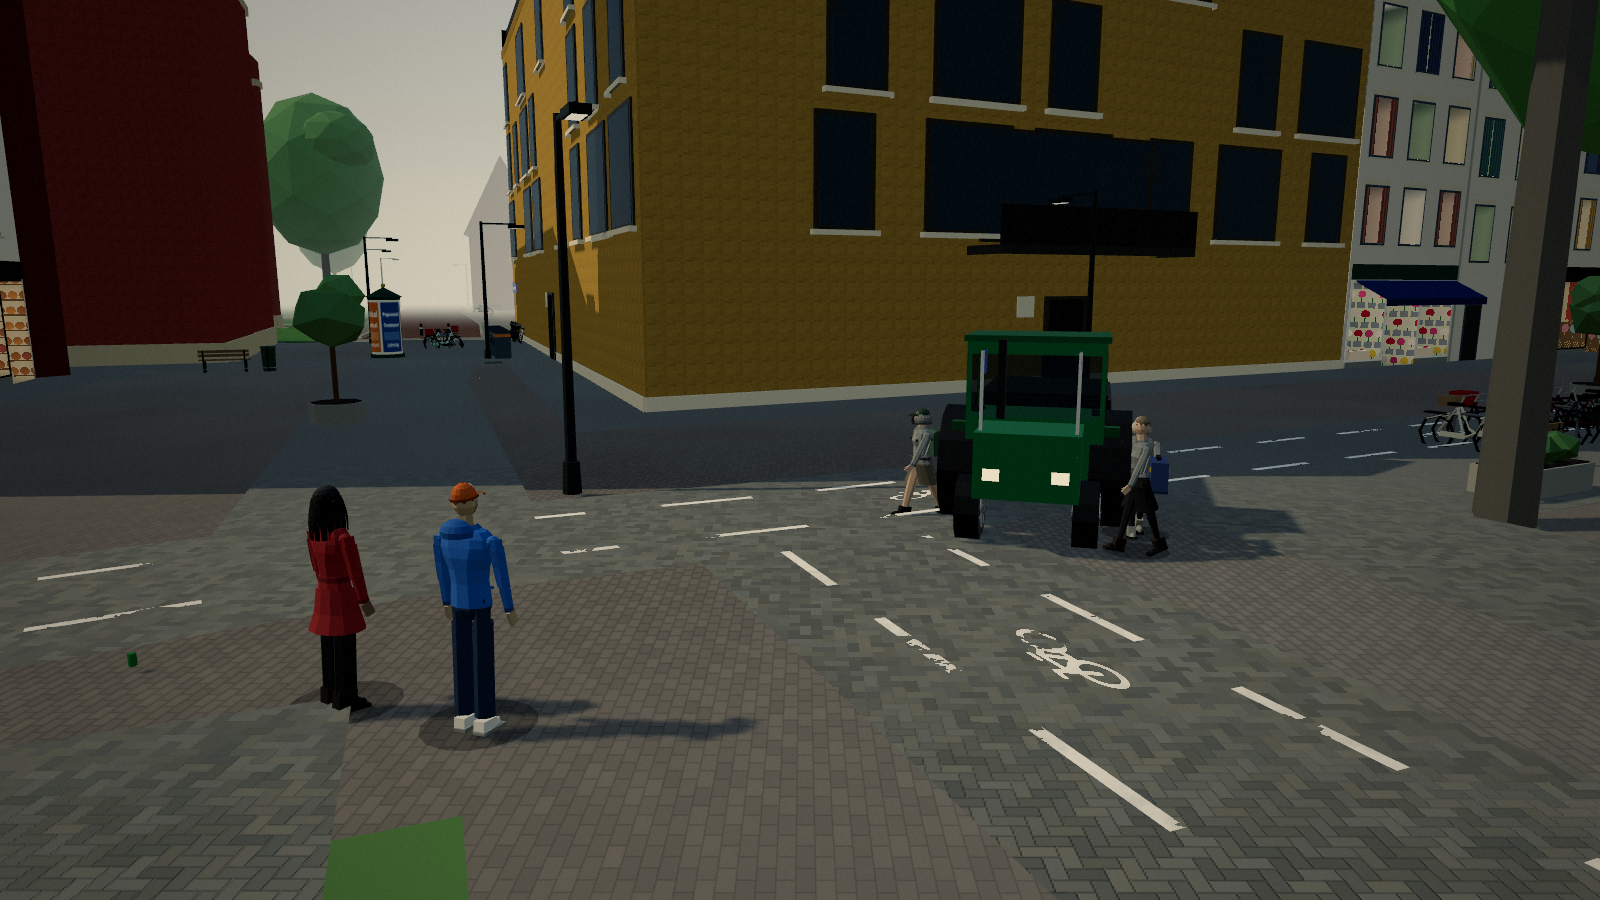
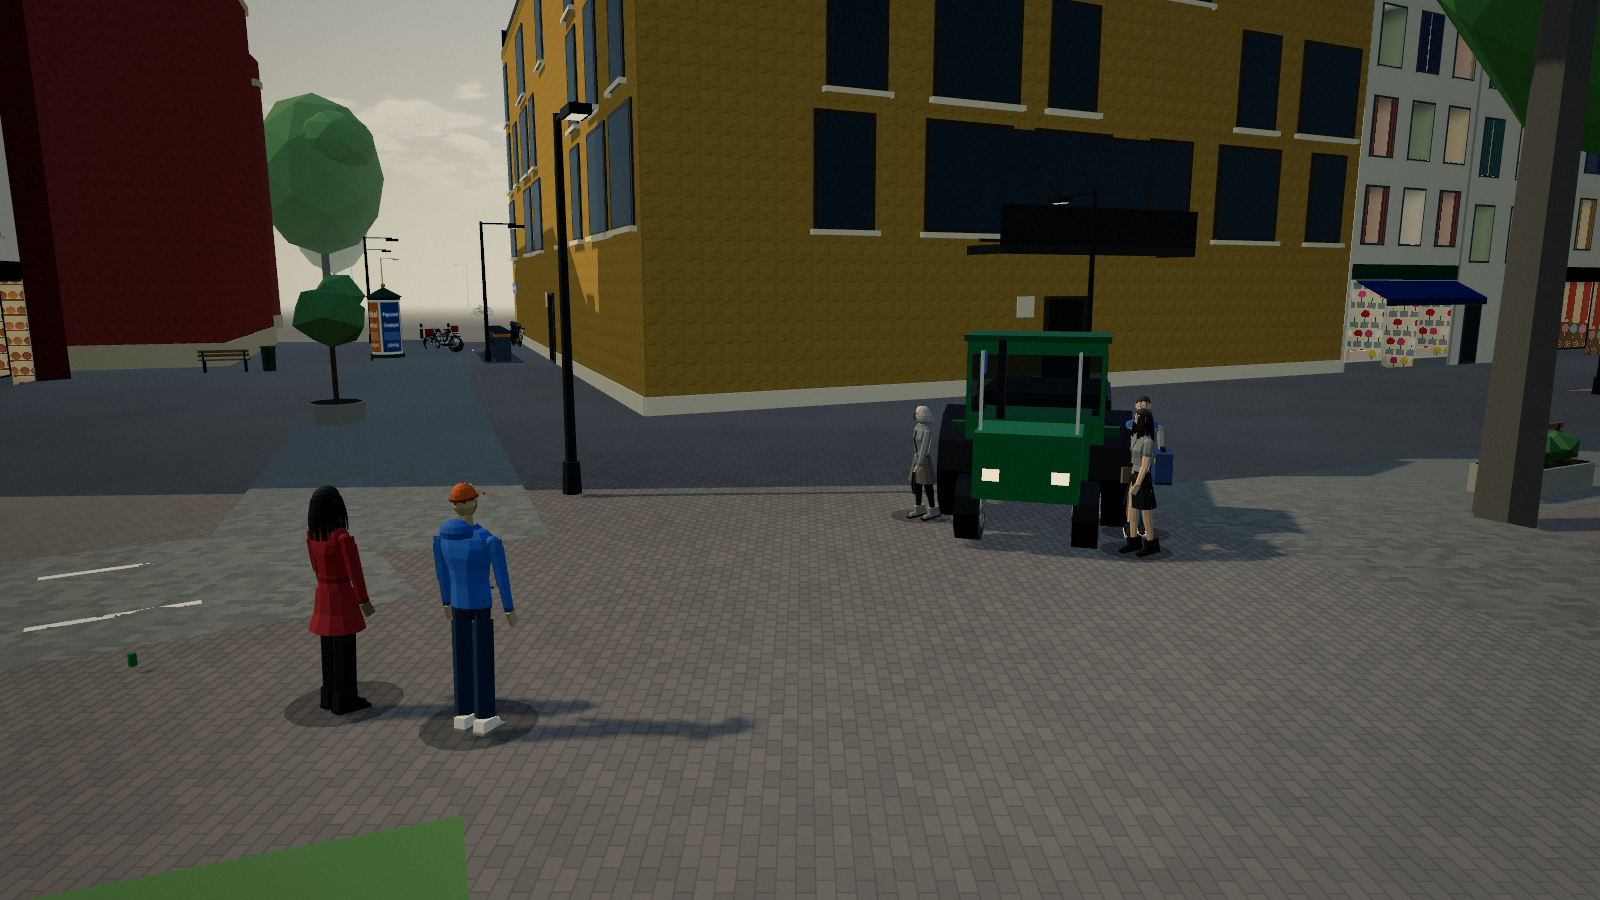
Beeldpagina cutscenes: ronde 2 (reling, intro-snee, M30, M10, keukendeur, Moi. De bank?)

diff --git a/docs/beeld-23-11/cutscenes-visueel/vergelijk.html b/docs/beeld-23-11/cutscenes-visueel/vergelijk.html
@@ -6,8 +6,9 @@
 <style>
   body { font: 15px/1.45 system-ui, sans-serif; margin: 24px auto; max-width: 1300px; padding: 0 16px; background: #f4f0e6; color: #1c1b18; }
   h1 { margin: 0 0 4px; } p.sub { margin: 0 0 24px; color: #4a463c; }
+  h2.deel { margin: 40px 0 16px; border-bottom: 2px solid #1c1b18; }
   .paar { margin: 0 0 36px; }
-  .paar h2 { margin: 0 0 2px; font-size: 18px; }
+  .paar h3 { margin: 0 0 2px; font-size: 18px; }
   .paar p { margin: 0 0 8px; color: #4a463c; }
   .rij { display: grid; grid-template-columns: 1fr 1fr; gap: 12px; }
   figure { margin: 0; }
@@ -19,11 +20,13 @@
 </head>
 <body>
 <h1>Cutscenes visueel: voor en na</h1>
-<p class="sub">Branch <code>cutscenes-visueel-23-11</code>, stills uit een headless Chrome tegen de gestagede game (zelfde wereld, zelfde scènes; geen Electron). Ondertitels en "TEST" in de titelkaart horen bij het testscript.</p>
-<div class="let">Bekeken: de rondvaartboot (gesprek, mislukscène, dekmoment) en <code>M10.intro</code>. Niet bekeken: de zitplaatsen op kleine boten, <code>M30.outro</code>, <code>M01.intro</code>, <code>M01.outro</code>, <code>M15.outro</code> en <code>carriere-bezit-start</code> (alleen de data is gemeten).</div>
+<p class="sub">Branch <code>cutscenes-visueel-23-11</code>. Stills uit een eigen headless Chrome tegen de gestagede game (dezelfde wereld en scènes; geen Electron). De scènes staan op een vaste testplek (Grote Markt) of in de echte rondvaartboot bij de Spilsluizen. Een kaart "TEST" in een voor-beeld komt uit het oude testscript, niet uit het spel.</p>
+<div class="let">Bekeken in beeld: de rondvaartboot (gesprek, mislukscène, dekmoment met reling, intro), <code>M10.intro</code>, <code>M30.outro</code> en de keuken van de opening (deur en "Moi. De bank?"). Niet bekeken: de zitplaatsen op kleine boten, <code>M01.intro</code>, <code>M01.outro</code>, <code>M15.outro</code>, <code>carriere-bezit-start</code> en de bus. Details: <a href="../../CUTSCENE-ISSUES-23-11.md">CUTSCENE-ISSUES-23-11.md</a>.</div>
+
+<h2 class="deel">De rondvaartboot</h2>
 
 <section class="paar">
-  <h2>Rondvaartboot: een gesprek in de boot</h2>
+  <h3>Een gesprek in de boot</h3>
   <p>Voor: het paar stond dwars op het dak-eind, hoofden door het glas, blik opzij. Na: zittend op de bank onder het dak, lijven naar de boeg, alleen het hoofd draait naar de spreker.</p>
   <div class="rij">
     <figure class="voor"><figcaption>Voor</figcaption><img src="rondvaart-gesprek-voor.png" alt="Voor: Tammo en Tessa staan bij het glazen dak"></figure>
@@ -32,7 +35,16 @@
 </section>
 
 <section class="paar">
-  <h2>Rondvaartboot: de mislukscène</h2>
+  <h3>Het begin van een intro in de boot</h3>
+  <p>Voor: de scène begon op de hoogte van de volgcamera (16 m) en zakte seconden lang naar het paar. Na: het eerste beeld is meteen het paar op de bank (harde snee).</p>
+  <div class="rij">
+    <figure class="voor"><figcaption>Voor</figcaption><img src="rondvaart-intro-voor.png" alt="Voor: luchtbeeld van de boot"></figure>
+    <figure class="na"><figcaption>Na</figcaption><img src="rondvaart-intro-na.png" alt="Na: het paar op de bank"></figure>
+  </div>
+</section>
+
+<section class="paar">
+  <h3>De mislukscène</h3>
   <p>Voor: een hoge opname waarop het paar op de punt van de boeg staat (half in het water). Na: op de bank, camera onder het dak.</p>
   <div class="rij">
     <figure class="voor"><figcaption>Voor</figcaption><img src="rondvaart-mislukt-voor.png" alt="Voor: het paar op de boeg"></figure>
@@ -41,20 +53,51 @@
 </section>
 
 <section class="paar">
-  <h2>Rondvaartboot: het dekmoment (opbouw naar de kus)</h2>
-  <p>Voor: de camera stond op 1,5 m en kapte de hoofden af. Na: ruimer en iets hoger, hoofden en schouders in beeld, het paar net voor het dak. De reling uit de regie bestaat nog niet in het bootmodel (open punt 2 in <a href="../../CUTSCENE-ISSUES-23-11.md">CUTSCENE-ISSUES-23-11.md</a>).</p>
+  <h3>Het dekmoment (opbouw naar de kus)</h3>
+  <p>Voor: de camera op 1,5 m kapte de hoofden af en er was geen reling. Na: hoofden in beeld en een reling langs het voordek; de handen liggen erop.</p>
   <div class="rij">
     <figure class="voor"><figcaption>Voor</figcaption><img src="rondvaart-dek-voor.png" alt="Voor: hoofden afgekapt"></figure>
-    <figure class="na"><figcaption>Na</figcaption><img src="rondvaart-dek-na.png" alt="Na: hoofden in beeld"></figure>
+    <figure class="na"><figcaption>Na</figcaption><img src="rondvaart-dek-na.png" alt="Na: hoofden in beeld, reling"></figure>
+  </div>
+</section>
+
+<h2 class="deel">Verhaalscènes</h2>
+
+<section class="paar">
+  <h3>M10.intro: Jelle, Durk en Douwe stappen uit de limo</h3>
+  <p>Voor: ze begonnen midden in de limo, alleen hun voeten kwamen eronder uit. Na: ze stappen aan de zijkant uit. (Het groene vlak op straat linksonder en het zwarte bord met paal horen bij de testplek en het pand, niet bij de scène.)</p>
+  <div class="rij">
+    <figure class="voor"><figcaption>Voor</figcaption><img src="m10-intro-voor.png" alt="Voor: alleen voeten onder de limo"></figure>
+    <figure class="na"><figcaption>Na</figcaption><img src="m10-intro-na.png" alt="Na: drie figuren naast de limo"></figure>
   </div>
 </section>
 
 <section class="paar">
-  <h2>M10.intro: Jelle, Durk en Douwe stappen uit de limo</h2>
-  <p>Voor: ze begonnen midden in de limo, alleen hun voeten kwamen eronder uit. Na: ze stappen aan de zijkant uit en lopen om de neus heen.</p>
+  <h3>M30.outro: "Thuis is waar de kar staat"</h3>
+  <p>Voor: de camera keek van de snackwagen af naar het Stadhuis; de wagen verdween na de opening uit beeld. Na: van achter het paar, met de wagen Tam &amp; Tes achter Tammo.</p>
   <div class="rij">
-    <figure class="voor"><figcaption>Voor</figcaption><img src="m10-intro-voor.png" alt="Voor: alleen voeten onder de limo"></figure>
-    <figure class="na"><figcaption>Na</figcaption><img src="m10-intro-na.png" alt="Na: drie figuren naast de limo"></figure>
+    <figure class="voor"><figcaption>Voor</figcaption><img src="m30-outro-voor.png" alt="Voor: geen snackwagen in beeld"></figure>
+    <figure class="na"><figcaption>Na</figcaption><img src="m30-outro-na.png" alt="Na: snackwagen achter Tammo"></figure>
+  </div>
+</section>
+
+<h2 class="deel">De opening (keuken)</h2>
+
+<section class="paar">
+  <h3>De keukendeur</h3>
+  <p>Voor: achter de open deur een zwart vlak; Tammo kwam door de wand in losse delen. Na: een echte deuropening met een verlichte gang (vloer, kapstok met jas, lamp).</p>
+  <div class="rij">
+    <figure class="voor"><figcaption>Voor</figcaption><img src="opening-deur-voor.png" alt="Voor: zwart achter de deur"></figure>
+    <figure class="na"><figcaption>Na</figcaption><img src="opening-deur-na.png" alt="Na: verlichte gang achter de deur"></figure>
+  </div>
+</section>
+
+<section class="paar">
+  <h3>"Moi. De bank?"</h3>
+  <p>Voor: laag en dichtbij, het beeld richtte op de borst. Na: op ooghoogte en iets verder weg, het hele hoofd met ruimte erboven, en de gang achter hem. (De grijze strook in de gang is de straat onder de testplek; in het spel hangt de keuken hoog in de flat.)</p>
+  <div class="rij">
+    <figure class="voor"><figcaption>Voor</figcaption><img src="opening-bank-voor.png" alt="Voor: dichtbij, hoofd aan de rand"></figure>
+    <figure class="na"><figcaption>Na</figcaption><img src="opening-bank-na.png" alt="Na: hoofd met ruimte erboven"></figure>
   </div>
 </section>
 </body>
